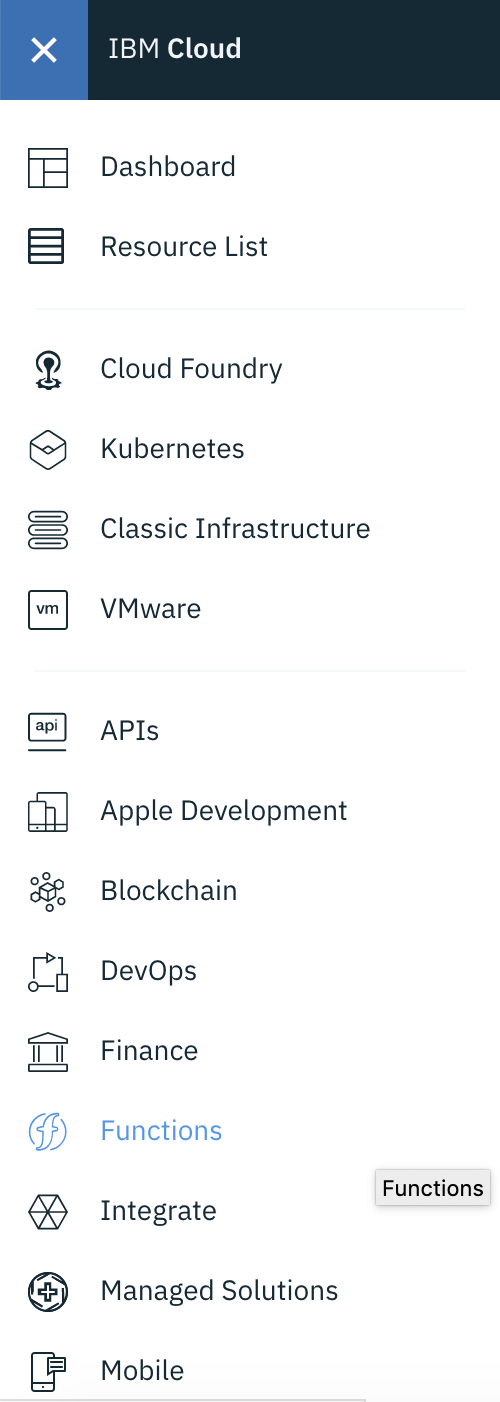
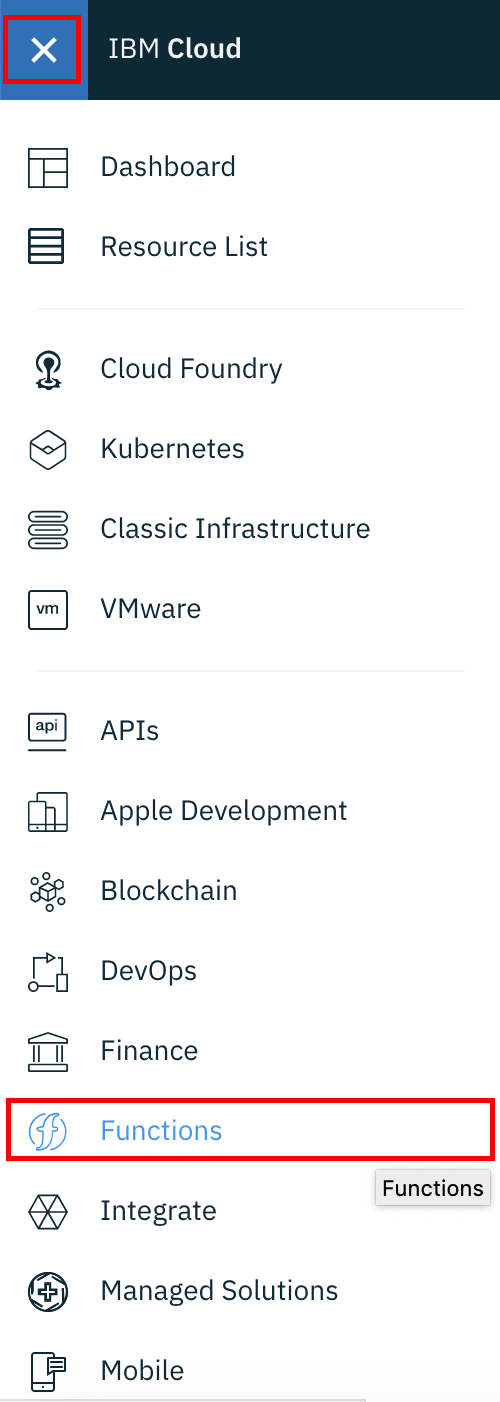
Tutorial Actions 1-4

Changed region(s): [[0.0, 0.7668, 0.99, 0.8281], [0.0, 0.0, 0.18, 0.0613]]

diff --git a/Functions/prepara-datos-receta.js b/Functions/prepara-datos-receta.js
@@ -1,0 +1,17 @@
+/**
+ * Prepara la entrada al recetario para ser persistida
+ */
+function main(params) {
+    if (!params.nombre || !params.calorias) {
+      return Promise.reject({ error: 'no se especifica nombre o calorías'});
+    }
+  
+    return {
+      doc: {
+        creadoEl: new Date(),
+         nombre: params.nombre,
+         calorias: params.calorias,
+         preparacion: params.preparacion
+      }
+    };
+  }

diff --git a/Functions/prepara-consulta-receta.js b/Functions/prepara-consulta-receta.js
@@ -1,0 +1,15 @@
+/**
+ * Prepara la consulta al recetario
+ */
+function main(params) {
+    if (!params.nombre || !params.calorias) {
+      return Promise.reject({ error: 'no se especifica nombre o calorías'});
+    }
+  
+    return {
+      doc: {
+          nombre: params.nombre,
+          calorias: params.calorias
+        }
+    };
+  }

diff --git a/Functions/TUTORIAL.md b/Functions/TUTORIAL.md
@@ -1,0 +1,14 @@
+# Creación de las Funciones Serverless
+## Introducción
+¿Qué es una función serverless? A diferencia de otros mecanismos de despliegue, bajo el paradigma serverless pensamos en funciones o acciones que son disparadas ante alguna forma de evento. Bajo este paradigma, nos olvidamos de administrar o desplegar equipos y middleware, preocupandonos únicamente por nuestra lógica aplicativa.
+
+Como modelo de operación es sumamente relevante, pues se paga únicamente con base a las invocaciones a nuestras funciones y no existe infraestructura sub utilizada. Así mismo, la escalabilidad es inmediata e instantánea sobre un pool de recursos públicos compartidos.
+
+## Configuración
+1. Entramos a el ![IBM Cloud](https://cloud.ibm.com) y nos firmamos en caso de ser necesario. Seleccionamos el icono superior izquierdo, lo que despliega un menú de donde seleccionaremos la opción __Functions__ ![Menu](./0001.png)
+
+2. Al entrar al panel de control de los __IBM Cloud Functions__ elegimos del menú del lado izquierdo la función __Actions__ ![Actions Menu](./0002.png)
+
+3. Una vez dentro de __Actions__ debemos dar click en el botón de crear acción ![Boton Create](./0003.png)
+
+4. Para crear la acción debemos llenar la ficha de meta datos, para lo que crearemos el nombre (prepara-datos-receta) y acto seguido damos click en el botón de crear ![Boton Create Actions](./0004.png)
